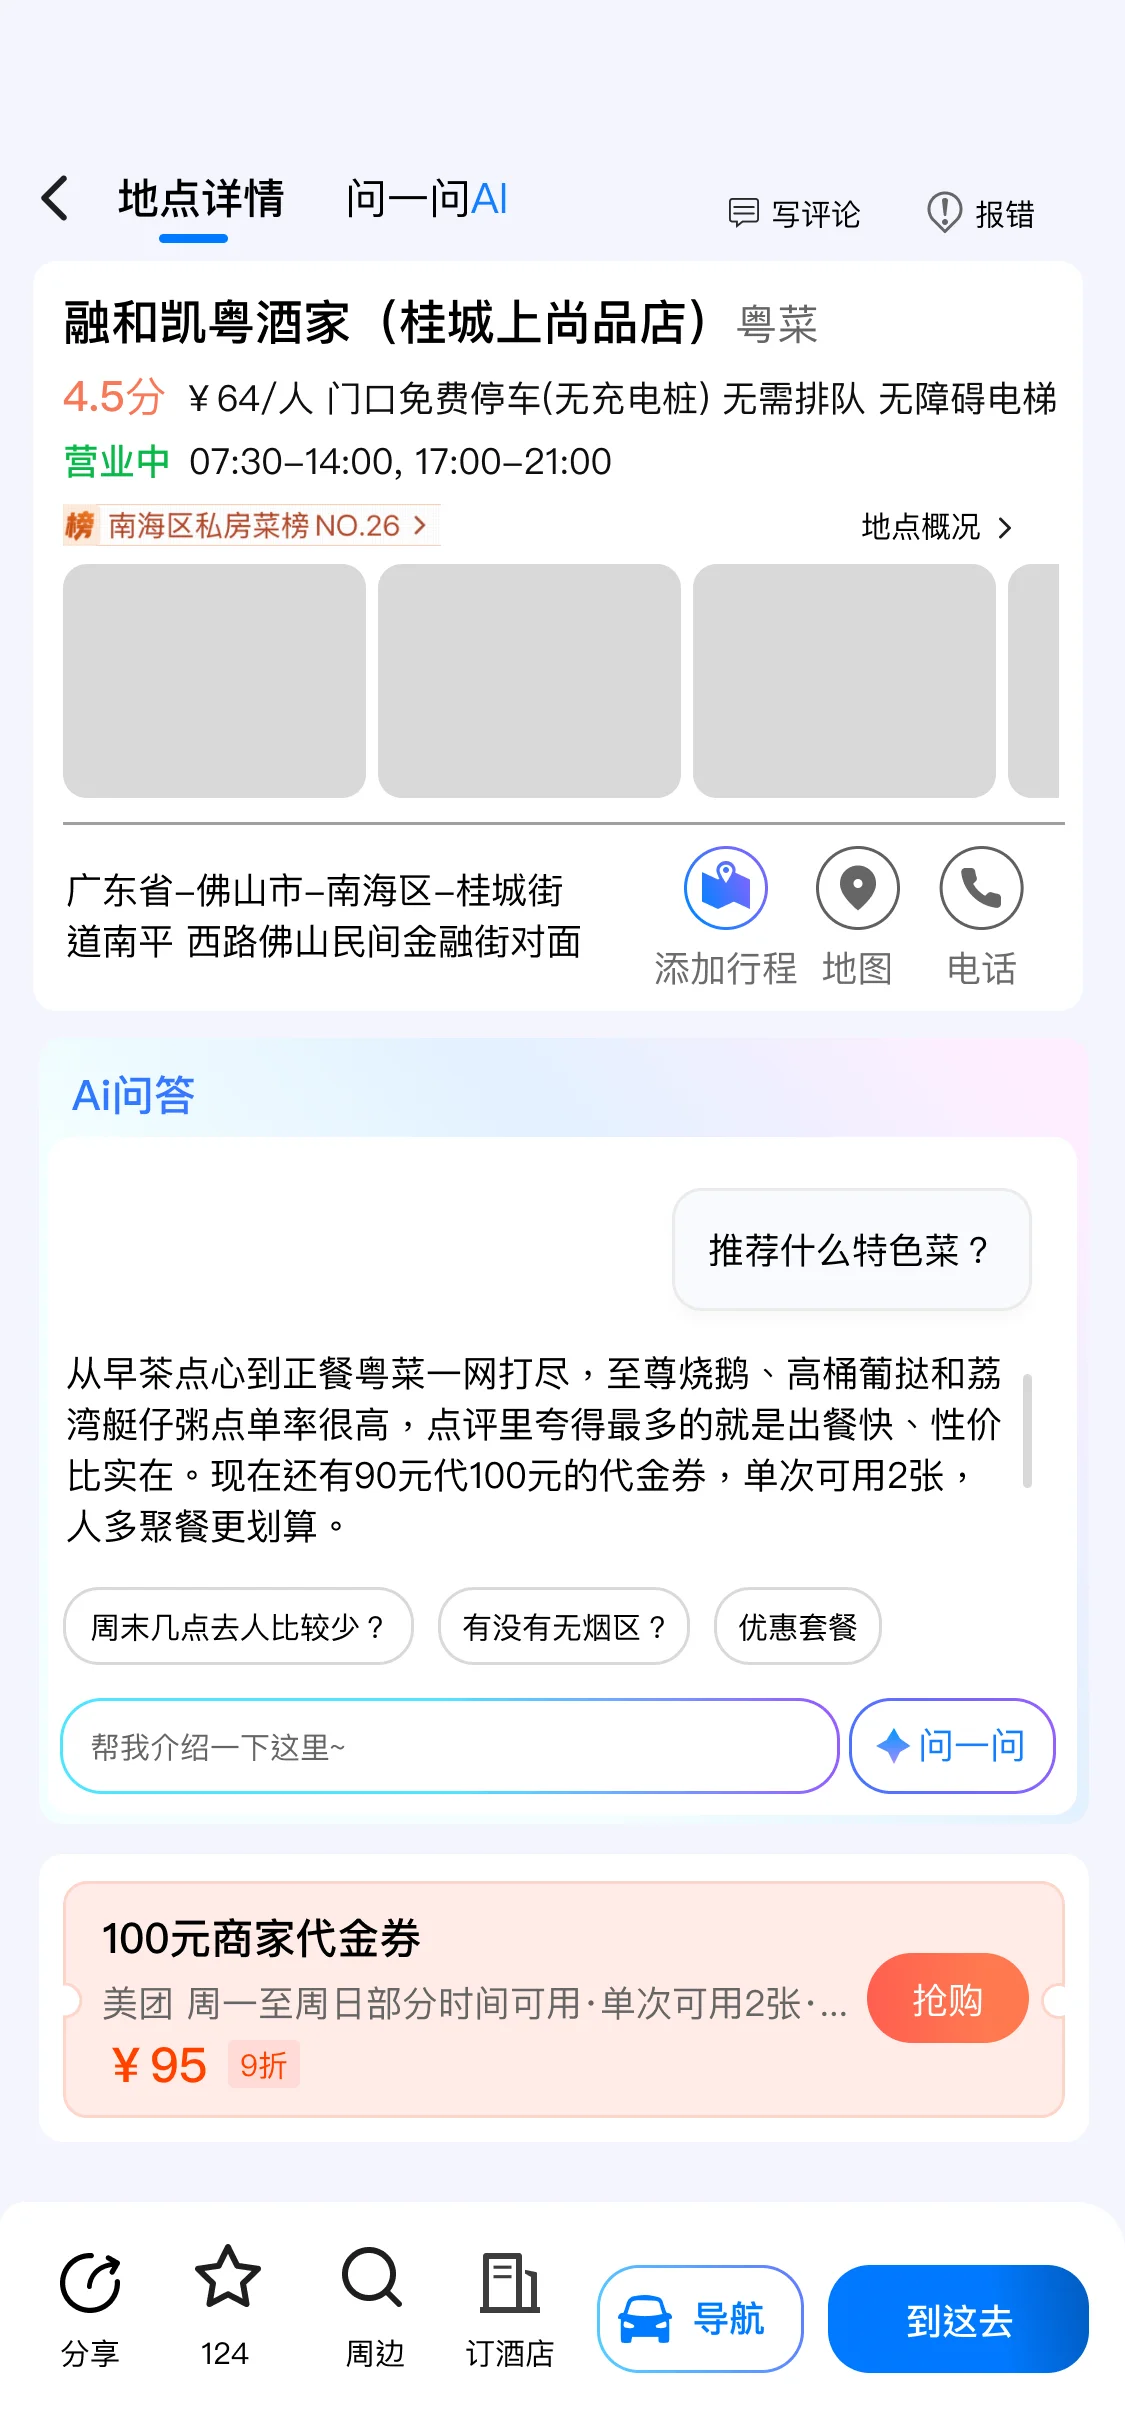
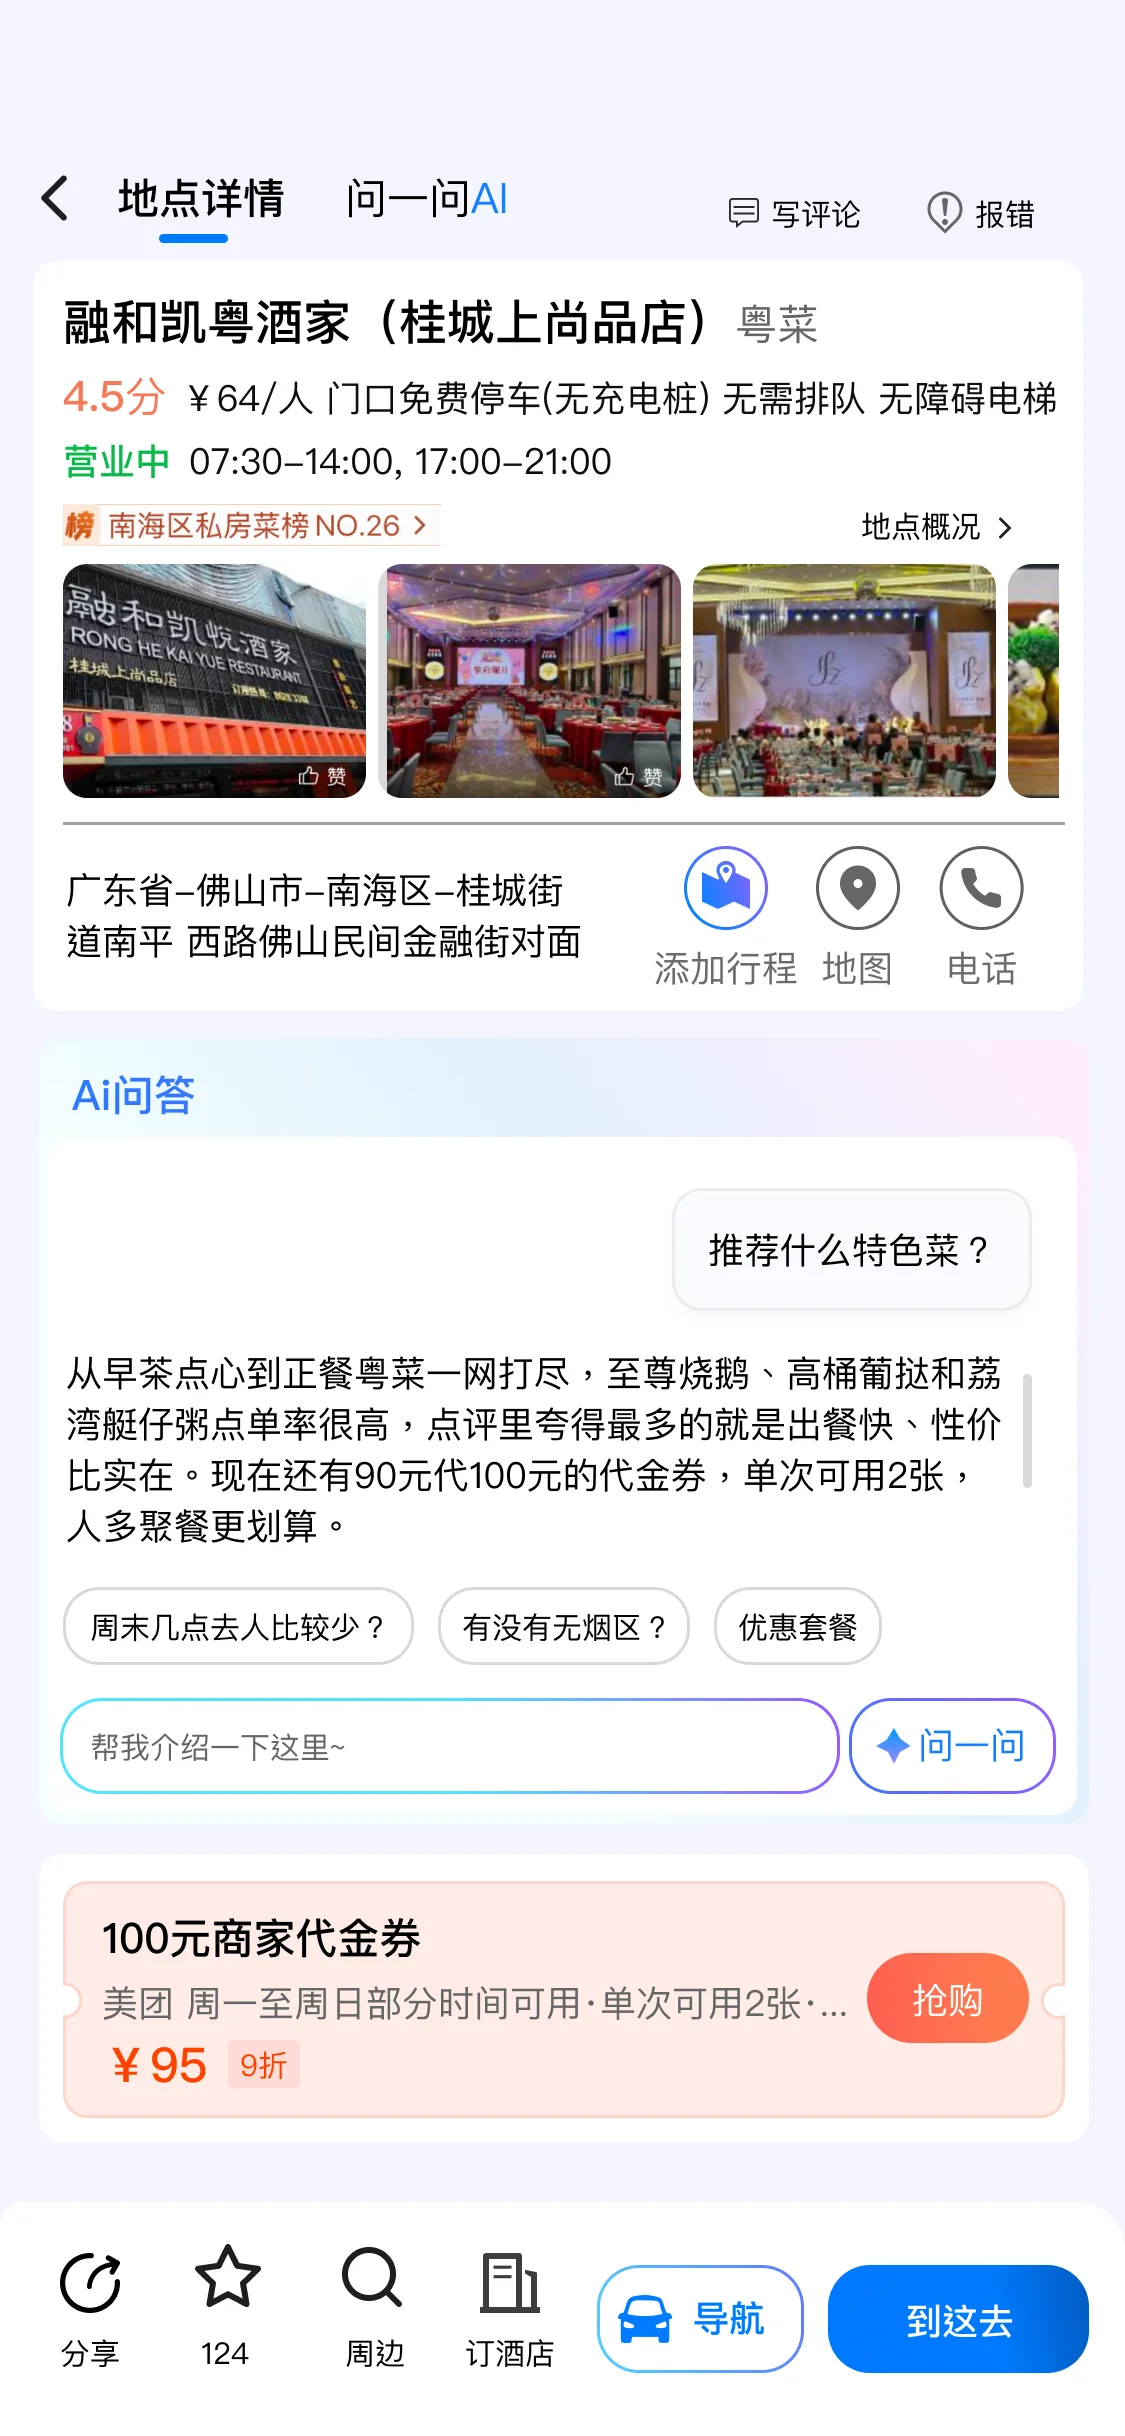
更新最终方案入口卡片图与呈现方式三的内嵌问答示意图
entry-card.webp 换成带"问一问"按钮、图片已加载完成的最终态；answer-inline.webp
换成详情页内嵌展开的真实AI问答对话截图（提问+结构化回答），配套 ?v= 版本号更新。

Claude-Session: https://claude.ai/code/session_018LdX2jWvomDq8DNf5oPoet

Changed region(s): [[0.0311, 0.2184, 0.9644, 0.3432]]

diff --git a/projects/baidu-map.html b/projects/baidu-map.html
@@ -71,48 +71,35 @@
     </p>
 
     <h3 style="margin-top:48px;">用户现状与现有问题</h3>
-    <div class="my-split my-split-4060 tight-visual" style="margin-top:20px;">
-      <div>
-        <p class="my-lead-muted">现有 AI 总结能回答：</p>
-        <p class="my-lead" style="font-size:1.4rem;">"大家怎么说？"</p>
-        <p class="my-lead-muted" style="margin-top:20px;">但还没有充分回答：</p>
-        <p class="my-lead" style="font-size:1.4rem; color:#2468F2;">"我现在去这里，需要知道什么？"</p>
+    <div style="margin-top:20px;">
+      <p class="my-lead-muted">现有 AI 总结能回答：</p>
+      <p class="my-lead" style="font-size:1.4rem;">"大家怎么说？"</p>
+      <p class="my-lead-muted" style="margin-top:20px;">但还没有充分回答：</p>
+      <p class="my-lead" style="font-size:1.4rem; color:#2468F2;">"我现在去这里，需要知道什么？"</p>
 
-        <div class="plain-row-list numbered" style="margin-top:32px;">
-          <div class="plain-row">
-            <span class="plain-row-icon">1</span>
-            <div class="plain-row-text">
-              <strong>信息类型偏单一</strong>
-              <p>主要总结评价内容，对用户具体到店问题支持有限。</p>
-            </div>
-          </div>
-          <div class="plain-row">
-            <span class="plain-row-icon">2</span>
-            <div class="plain-row-text">
-              <strong>信息优先级不明确</strong>
-              <p>口味、停车、排队、价格等内容混在一起。</p>
-            </div>
-          </div>
-          <div class="plain-row">
-            <span class="plain-row-icon">3</span>
-            <div class="plain-row-text">
-              <strong>摘要可扫读性不足</strong>
-              <p>连续文本需要用户再次自行提取重点。</p>
-            </div>
-          </div>
-          <div class="plain-row">
-            <span class="plain-row-icon">4</span>
-            <div class="plain-row-text">
-              <strong>缺少进一步查询入口</strong>
-              <p>用户产生"停车方便吗？"等具体问题后，缺少低成本继续获取答案的方式。</p>
-            </div>
-          </div>
+      <div class="bm-annotate">
+        <div class="bm-annotate-image">
+          <img class="bm-shot" src="../assets/baidu-map/before-existing.webp?v=1" alt="百度地图现有的 AI 内容总结，以连续文本概括用户评价">
+          <div class="bm-annotate-highlight"></div>
+        </div>
+        <div class="bm-annotate-callout pos-left" style="top:41%;">
+          <div class="bm-annotate-head"><span class="bm-annotate-num">1</span><strong>信息类型偏单一</strong></div>
+          <p>主要总结评价内容，对用户具体到店问题支持有限。</p>
+        </div>
+        <div class="bm-annotate-callout pos-right" style="top:48%;">
+          <div class="bm-annotate-head"><span class="bm-annotate-num">2</span><strong>信息优先级不明确</strong></div>
+          <p>口味、停车、排队、价格等内容混在一起。</p>
+        </div>
+        <div class="bm-annotate-callout pos-left" style="top:55%;">
+          <div class="bm-annotate-head"><span class="bm-annotate-num">3</span><strong>摘要可扫读性不足</strong></div>
+          <p>连续文本需要用户再次自行提取重点。</p>
+        </div>
+        <div class="bm-annotate-callout pos-right" style="top:61%;">
+          <div class="bm-annotate-head"><span class="bm-annotate-num">4</span><strong>缺少进一步查询入口</strong></div>
+          <p>用户产生"停车方便吗？"等具体问题后，缺少低成本继续获取答案的方式。</p>
         </div>
       </div>
-      <div style="margin-top:-40px;">
-        <img class="bm-shot" style="max-width:260px; margin:0 auto;" src="../assets/baidu-map/before-existing.webp?v=1" alt="百度地图现有的 AI 内容总结，以连续文本概括用户评价">
-        <p class="case-note" style="text-align:center; margin-top:12px;">现有 AI 总结截图，来自百度地图 App</p>
-      </div>
+      <p class="case-note" style="text-align:center; margin-top:16px;">现有 AI 总结截图，来自百度地图 App；标注问题均指向图中「AI总结」卡片</p>
     </div>
 
     <h3 style="margin-top:48px;">设计目标</h3>
@@ -382,7 +369,7 @@
           <span class="bm-option-tag">详情页内嵌展开</span>
         </div>
         <div class="bm-option-shot">
-          <img src="../assets/baidu-map/answer-inline.webp?v=1" alt="AI问答直接在地点详情页内展开为卡片，不离开当前页面">
+          <img src="../assets/baidu-map/answer-inline.webp?v=2" alt="AI问答直接在地点详情页内展开为卡片，不离开当前页面">
         </div>
         <p class="bm-scenario-note">AI 问答直接在详情页内展开为一张卡片，不离开当前页面，但会挤压原有内容空间。</p>
       </div>
@@ -404,7 +391,7 @@
 
     <div class="bm-scenarios" style="margin-top:36px;">
       <div>
-        <img class="bm-shot" src="../assets/baidu-map/entry-card.webp?v=3" alt="地点详情页首屏，底部为轻量AI入口卡片，带问一问按钮：问Ai·实时排队、停车、推荐菜？">
+        <img class="bm-shot" src="../assets/baidu-map/entry-card.webp?v=4" alt="地点详情页首屏，底部为轻量AI入口卡片，带问一问按钮：问Ai·实时排队、停车、推荐菜？">
         <p class="case-note" style="text-align:center; margin-top:12px;">地点详情页 + 轻量 AI 入口</p>
       </div>
       <div>
